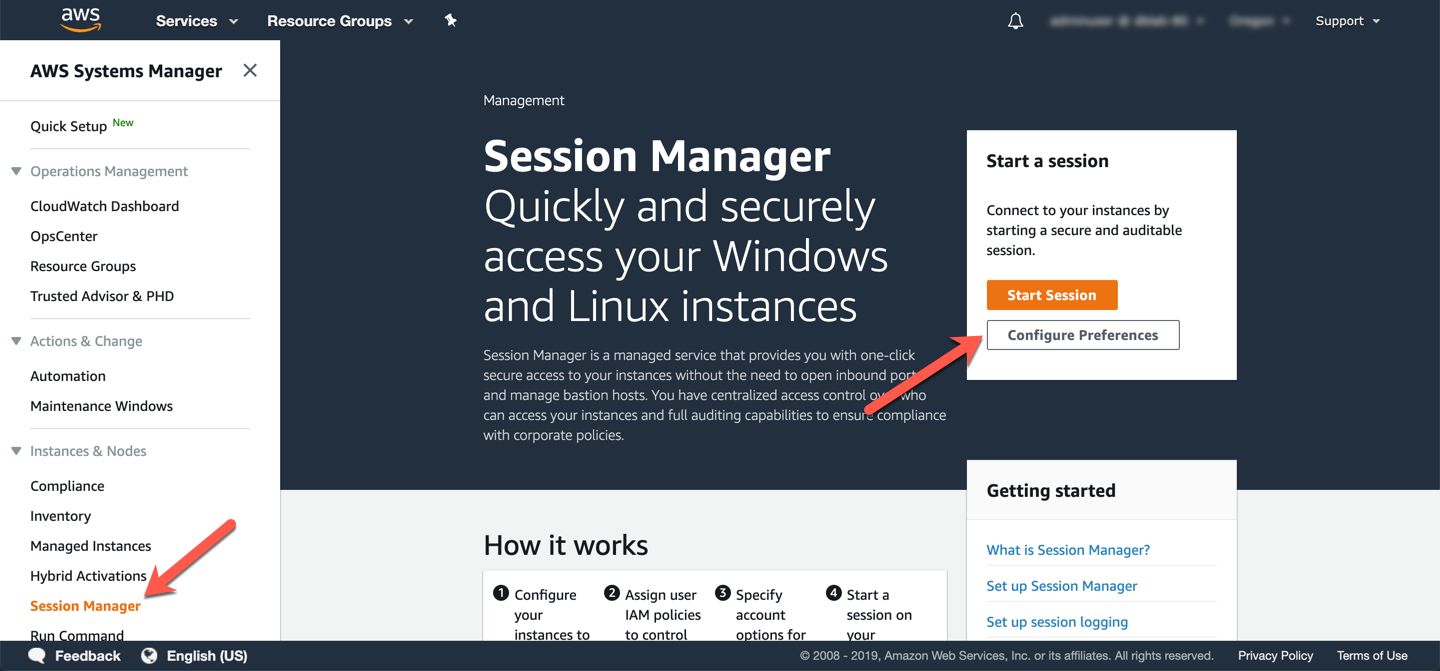
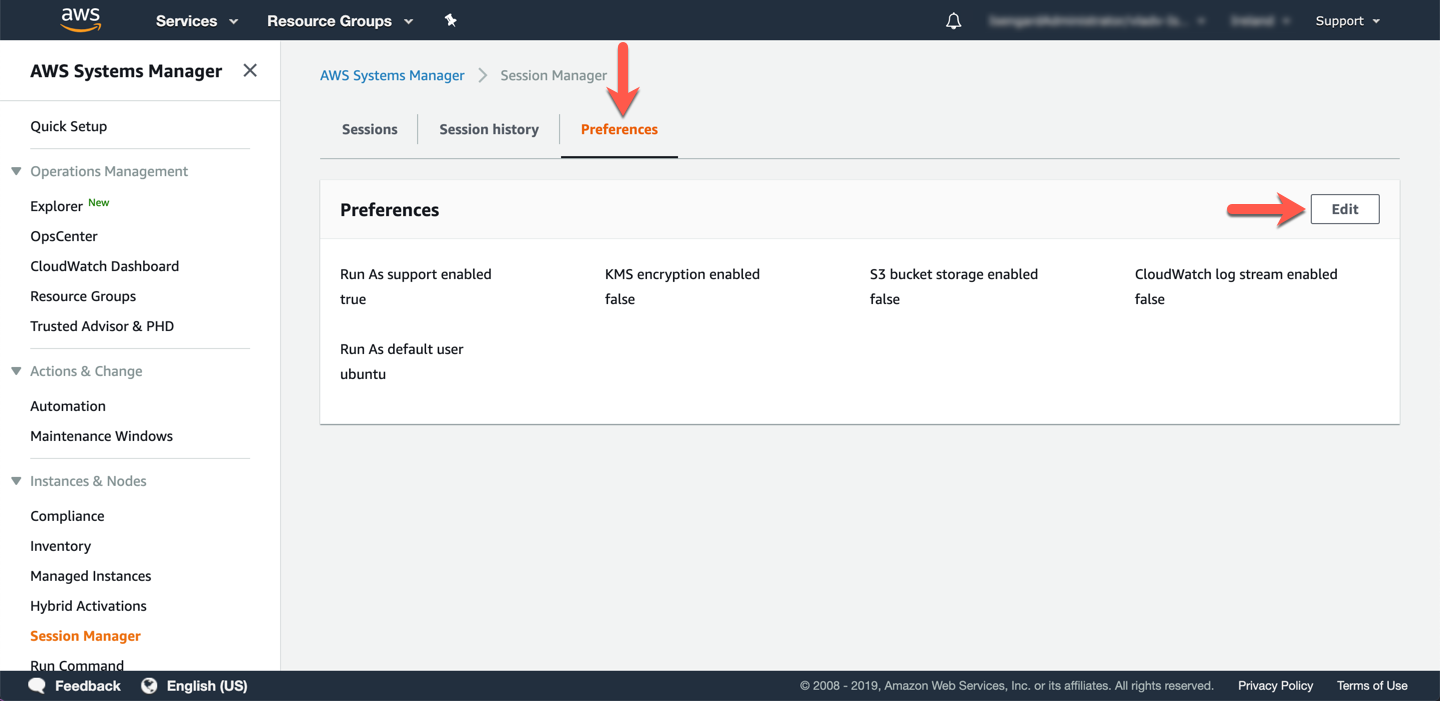
Updated screenshot and flow for Session Manager

diff --git a/docs/modules/connect/index.md b/docs/modules/connect/index.md
@@ -18,7 +18,7 @@ This lab requires the following lab modules to be completed first:
 
 To interact with the Aurora database cluster, you will use an Amazon EC2 Linux instance that acts like a workstation for the purposes of the labs. All necessary software packages and scripts have been installed and configured on this EC2 instance for you. To ensure a unified experience, you will be interacting with this workstation using <a href="https://docs.aws.amazon.com/systems-manager/latest/userguide/session-manager.html" target="_blank">AWS Systems Manager Session Manager</a>. With Session Manager you can interact with your workstation directly from the management console.
 
-Open the <a href="https://us-west-2.console.aws.amazon.com/systems-manager/session-manager?region=us-west-2" target="_blank">Systems Manager service console</a>. In the left hand menu, click on **Session Manager**. Then click the **Configure Preferences** button.
+Open the <a href="https://us-west-2.console.aws.amazon.com/systems-manager/session-manager?region=us-west-2" target="_blank">Systems Manager: Session Manager service console</a>. Choose the **Preferences** tab, then click **Edit**.
 
 !!! warning "Region Check"
     Ensure you are still working in the correct region, especially if you are following the links above to open the service console at the right screen.
@@ -164,7 +164,7 @@ Parameter | Parameter Placeholder | Value<br/>DB cluster provisioned by CloudFor
 -d | [database] | `mylab` | `mylab` or manually set | The schema (database) to generate load against.
 -t |  | 64 (default) | 64 (default) | The number of client connections (threads) to use concurrently.
 
-Now, open the <a href="https://us-west-2.console.aws.amazon.com/rds/home?region=us-west-2" target="_blank">Amazon RDS service console</a> in a different browser tab.
+Now, open the <a href="https://us-west-2.console.aws.amazon.com/rds/home?region=us-west-2#databases:" target="_blank">Amazon RDS service console</a> in a different browser tab.
 
 !!! warning "Region Check"
     Ensure you are still working in the correct region, especially if you are following the links above to open the service console at the right screen.
